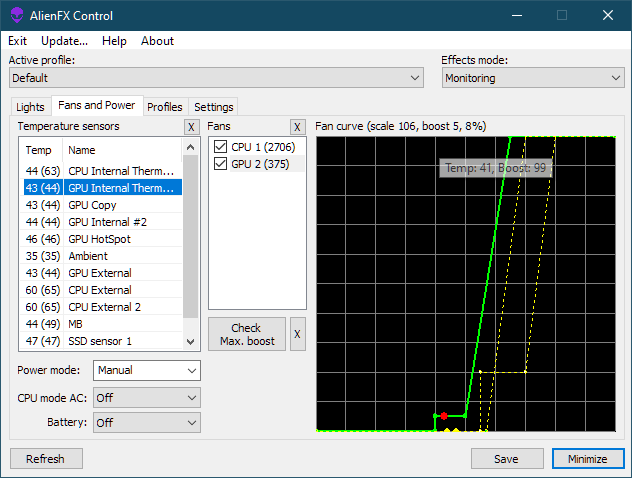
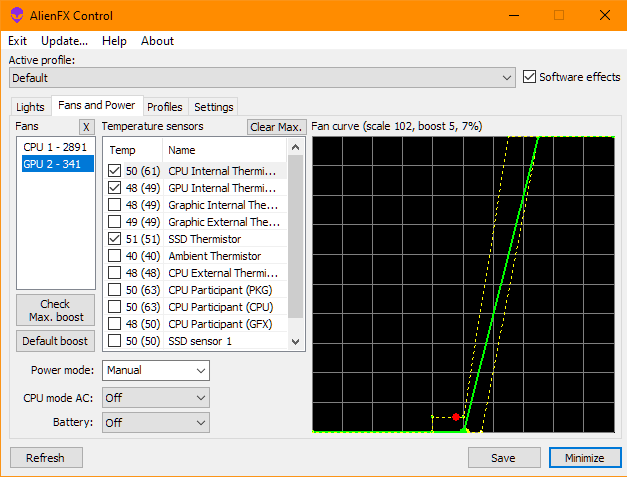
Doc update and small bugfix

diff --git a/alienfan-tools/alienfan-gui/alienfan-gui.cpp b/alienfan-tools/alienfan-gui/alienfan-gui.cpp
@@ -265,7 +265,7 @@ LRESULT CALLBACK FanDialog(HWND hDlg, UINT message, WPARAM wParam, LPARAM lParam
             if (GetKeyState(VK_SHIFT) & 0xf0 || MessageBox(hDlg, "Do you want to clear all fan curves?", "Warning",
                 MB_YESNO | MB_ICONWARNING) == IDYES) {
                 fan_conf->lastProf->fanControls[fan_conf->lastSelectedFan].clear();
-                ReloadFanView(fanList);
+                ReloadTempView(tempList);
             }
         } break;
         case IDC_MAX_RESET:

diff --git a/alienfx-gui/FanDialog.cpp b/alienfx-gui/FanDialog.cpp
@@ -110,7 +110,7 @@ BOOL CALLBACK TabFanDialog(HWND hDlg, UINT message, WPARAM wParam, LPARAM lParam
             if (GetKeyState(VK_SHIFT) & 0xf0 || MessageBox(hDlg, "Do you want to clear all fan curves?", "Warning",
                 MB_YESNO | MB_ICONWARNING) == IDYES) {
                 fan_conf->lastProf->fanControls[fan_conf->lastSelectedFan].clear();
-                ReloadFanView(fanList);
+                ReloadTempView(tempList);
             }
         } break;
         case IDC_MAX_RESET:

diff --git a/Doc/alienfx-gui.md b/Doc/alienfx-gui.md
@@ -244,7 +244,7 @@ Left-click at already assigned cell to select corresponding light (and it's devi
 
 !["Fans and Power" tab](https://github.com/T-Troll/alienfx-tools/blob/master/Doc/img/gui-fans-6.png?raw=true)
 
-Fan and BIOS power profile settings can be defined at this tab.
+Fan settings and BIOS power modes can be defined at this tab.
 
 First, take a look at "Power mode" drop-down - it can control system predefined power modes. For manual fan control switch it to "Manual". You can edit mode name by selecting it and type new name.  
 First power mode always named "Manual", and the last power mode is a special one, named "G-mode" (if supported at you system). It's accelerate performance of the system, but set fans to maximal RPMs available.
@@ -258,14 +258,14 @@ You can change sensor name by double-click on it. In case you remove sensor name
 
 "Fans" list presents all fans found into the system and their current RPMs.
 
-"X" button above sensors list reset maximal temperature sensors value to current one.  
-"X" button above fans list REMOVE ALL CURVES for currently selected fan.
+"Reset max." button above sensors list reset maximal temperature sensors value to current one.  
+"X" button above fans list REMOVE ALL CURVES (for all sensors) for currently selected fan.
 
 "Check Max. boost" button will check possibility of currently selected fan to increase RPM even more, then 100% boost.  
 It will switch curve window to other mode - showing currently tested boost level and resulting RPM.  
 This process can take some minutes, window with final results will be shown after the process ends, and they be used lately for this fan.  
 You can press "Stop check" button at any time to stop max. boost check.  
-Press "X" button at right to reset fan boost to BIOS default values.
+Press "Default boost" button at right to reset fan boost to BIOS default values.
 
 There are "Fan curve" graph at the right. It shows currently selected fan temperature/boost curve, as well as current boost.  
 You will see current fan boost at the top if it, and the active fan control curve (green line). The rest of the sensors controlling the same fan marked as yellow dotted lines.  
@@ -275,20 +275,22 @@ Big green and yellow dots present temperature and proposed boost set for every s
 How to use it
 ```
 
-Fan control is temperature sensor-driven, so first select one of the temperature sensors. You can also change sensor name by double-click on it. In case you remove sensor name (leaving it empty), it will be restored back to default BIOS one.  
-Then, select which fan(s) should react on its readings - you can select from none to all in any combination.  
-So, select check box for fan(s) you need.
+First, select the Fan you want to control from left list.  
+Fan control is temperature sensor-driven, so select and check the sensors you want to use for fan control from sensors list.  
 
-After you doing so, currently selected fan settings will be shown at "Fan Curve" window (and the active sensor curve will be green).  
+After you doing this, currently selected fan settings will be shown at "Fan Curve" window - you will see current fan boost at the top, and the fan control curve for selected sensor (green line).
+The rest of the sensors controlling the same fan marked as yellow dotted lines.  
+Big green and yellow dots present temperature and proposed boost set for every sensor controlling this fan, red one show current hardware boost settings an selected sensor temperature.
+
 Now play with fan control curve - it defines fan boost by temperature level. X axle is temperature, Y axle is boost level.  
-You can left click (and drag until release mouse button) into the curve window to add point or select close point (if any) to move it.  
+You can left click (and drag until mouse button release) into the curve window to add point or select close point (if any) to move it.  
 You can click right mouse button at the graph point to remove it.  
 
 Please keep in mind:
 - Fan control is indirect at modern systems. You **can not** set exact fan RPMs, but can modify it using "boost" curves.
 - You can't remove first or last point of the curve.
 - If you move first or last point, it will keep its temperature after button release - but you can set other boost level for it.
-- Then fan controlled by more, then one sensor, boost will be set to the maximal value across them.  
+- Then fan controlled by multiply sensors, boost will be set to the maximal value across them.
 
 ## Profiles tab
 

diff --git a/Doc/alienfan-gui.md b/Doc/alienfan-gui.md
@@ -2,8 +2,8 @@
 
 ![AlienFan-GUI](https://github.com/T-Troll/alienfx-tools/blob/master/Doc/img/alienfan.png?raw=true)
 
-GUI application for fan control.  
-Then you start it, you will see 2 main windows - Temperatures (with current and maximal (press "x" button at list head to reset it to current values) readings) and Fans (with check boxes and current RPM), as well as separate Fan curve (graph).  
+GUI application for fan and power modes control.  
+Then you start it, you will see 2 main windows - Temperature sensors (with current and maximal (press "x" button at list head to reset it to current values) readings) and Fans (with current RPM readings), as well as separate Fan curve (graph).  
 You can also change sensor name by double-click on it. In case you remove sensor name (leaving it empty), it will be restored back to default BIOS one.
 
 "Power mode" drop down used to select global power mode. Power modes are system-specific, so exact power limit values depends of you gear, you can use third-party tools to check it. You can edit mode name by selecting it and type new name.  
@@ -12,24 +12,23 @@ First power mode always named "Manual", and the last power mode is a special one
 
 **Important:** Fans can only be controlled if Power Mode set to "Manual", and will be defined by BIOS value at other modes!
 
-"X" button above sensors list reset maximal temperature sensors value to current one.  
-"X" button above fans list REMOVE ALL CURVES for currently selected fan.
+"Clear Max." button above sensors list reset maximal temperature sensors value to current one.  
+"X" button above fans list REMOVE ALL CURVES (for all sensors) for currently selected fan.
 
 "Check Max. boost" button will check possibility of currently selected fan to increase RPM even more, then 100% boost.  
 It will switch curve window to other mode - showing currently tested boost level and resulting RPM.  
 This process can take some minutes, window with final results will be shown after the process ends, and they be used lately for this fan.  
 You can press "Stop check" button any time to stop max. boost check.  
-Press "X" button at right to reset fan boost to BIOS default values.
+Press "Default boost" button to reset fan boost to BIOS default values.
 
 ```
 How to use it
 ```
 
-Fan control is temperature sensor-driven, so first select one of the temperature sensors.  
-Then, choose fan(s) tied to it's reading - you can select from none to all in any combination.  
-Set check box(es) for fan(s) you need.
+First, select the Fan you want to control from left list.  
+Fan control is temperature sensor-driven, so select and check the sensors you want to use for fan control from sensors list.  
 
-After you doing so, currently selected fan settings will be shown at "Fan Curve" window - you will see current fan boost at the top, and the selected fan control curve (green line).
+After you doing this, currently selected fan settings will be shown at "Fan Curve" window - you will see current fan boost at the top, and the fan control curve for selected sensor (green line).
 The rest of the sensors controlling the same fan marked as yellow dotted lines.  
 Big green and yellow dots present temperature and proposed boost set for every sensor controlling this fan, red one show current hardware boost settings an selected sensor temperature.  
 Now play with fan control curve - it defines fan boost by temperature level. X axle is temperature, Y axle is boost level.  
@@ -39,7 +38,7 @@ You can click right mouse button at the graph point to remove it.
 Please keep in mind:
 - You can't remove first or last point of the curve.
 - If you move first or last point, it will keep it's temperature after button release - but you can set other boost level for it.
-- Then fan controlled by more, then one sensor, boost will be set to the maximal value across them. 
+- Then fan controlled by multiply sensors, boost will be set to the maximal value across them.
 - Fan control is indirect at modern systems. You **can not** set exact fan RPMs, but can modify it using "boost" curves.
 
 You can minimize application to tray pressing Minimize button (or the top one), left click on try icon restore application back, right click brings you the context menu for power mode/g-mode change.
